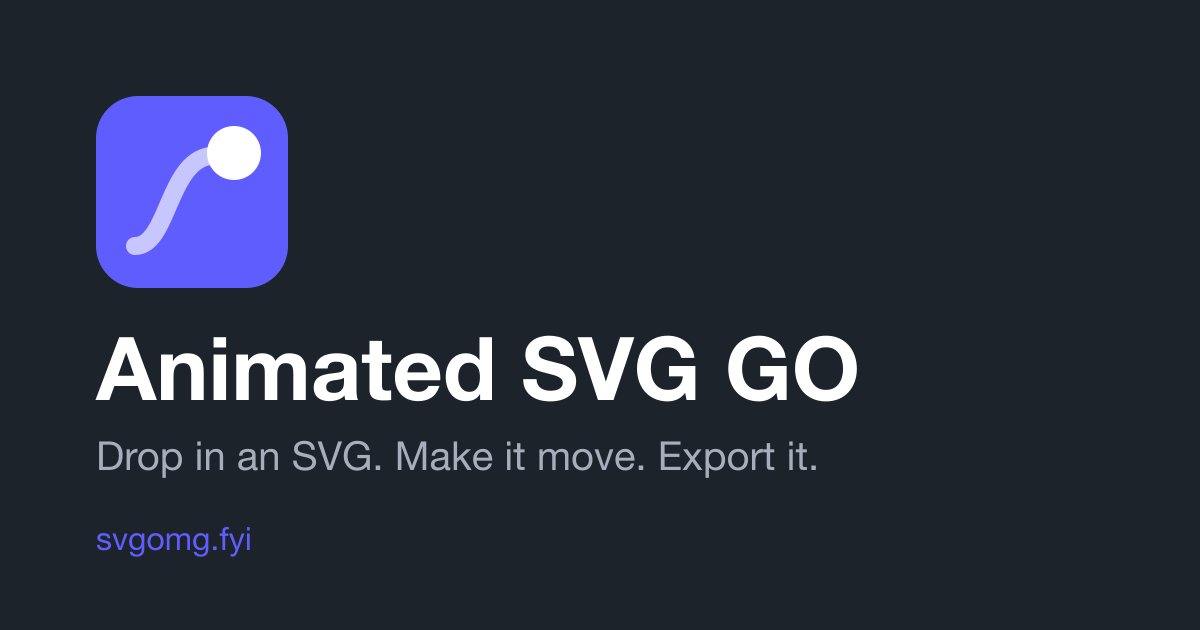
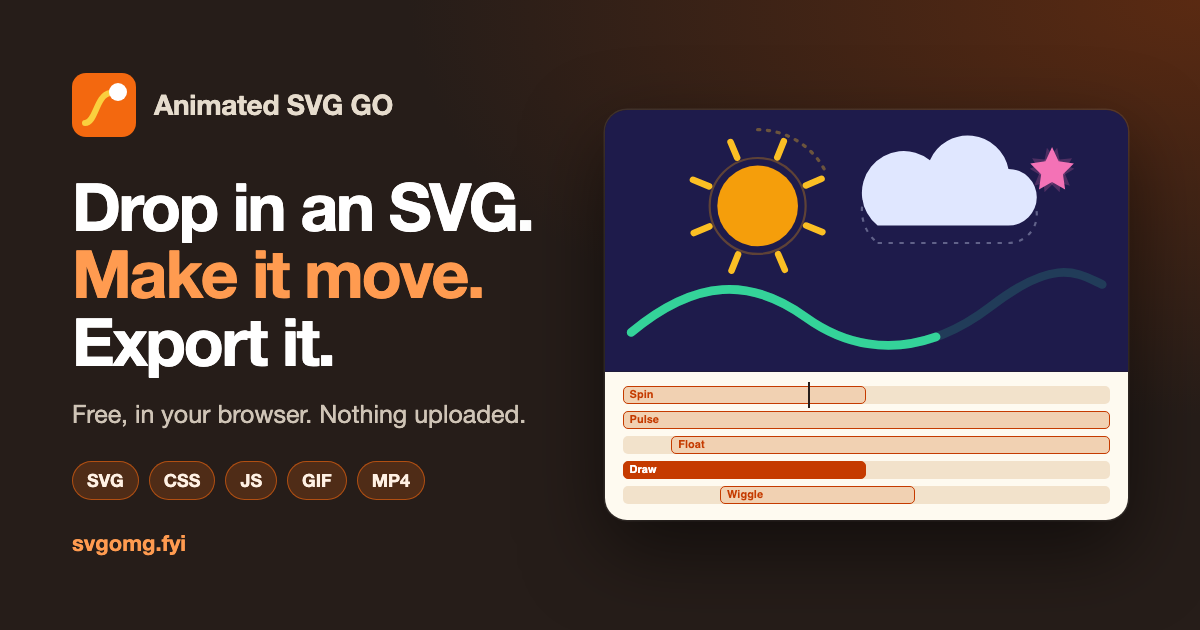
feat: warm tangerine, sunshine and mint palette
Replaces the stock daisyUI indigo in both themes. Primary passes 4.5:1
as text on every base shade, and its content colour passes on it.
Recolours the icon, theme colour, favicons and social card to match,
and the social card now shows the editor mid-animation.

diff --git a/src/styles/global.css b/src/styles/global.css
@@ -1,10 +1,42 @@
 @import "tailwindcss";
 @plugin "daisyui";
 
-/* The stock dark primary is 3.4:1 as text on the dark base. Lighter, with dark text on it, both pass 4.5:1 (WCAG 1.4.3). */
+/*
+  Tangerine, sunshine and mint on warm cream. Primary is also used as text (outline buttons), so it is
+  kept dark enough to pass 4.5:1 on every base shade, and its content colour passes on it (WCAG 1.4.3).
+  Secondary and accent are fills only: as text they fail.
+*/
+@plugin "daisyui/theme" {
+  name: "light";
+  default: true;
+  --color-base-100: oklch(98.5% 0.014 85);
+  --color-base-200: oklch(96% 0.024 82);
+  --color-base-300: oklch(92% 0.035 78);
+  --color-base-content: oklch(21% 0.025 40);
+  --color-primary: oklch(55% 0.185 40);
+  --color-primary-content: oklch(99% 0.01 85);
+  --color-secondary: oklch(87% 0.16 92);
+  --color-secondary-content: oklch(26% 0.03 40);
+  --color-accent: oklch(80% 0.13 170);
+  --color-accent-content: oklch(26% 0.03 40);
+  --color-neutral: oklch(30% 0.03 40);
+  --color-neutral-content: oklch(96% 0.02 82);
+}
+
+/* Lighter primary with dark text on it, so both pass 4.5:1 on the dark base. */
 @plugin "daisyui/theme" {
   name: "dark";
   prefersdark: true;
-  --color-primary: oklch(72% 0.16 277);
-  --color-primary-content: oklch(20% 0.02 260);
+  --color-base-100: oklch(24% 0.016 45);
+  --color-base-200: oklch(21.5% 0.016 45);
+  --color-base-300: oklch(19% 0.016 45);
+  --color-base-content: oklch(94% 0.015 80);
+  --color-primary: oklch(78% 0.15 55);
+  --color-primary-content: oklch(22% 0.04 35);
+  --color-secondary: oklch(85% 0.15 90);
+  --color-secondary-content: oklch(22% 0.03 40);
+  --color-accent: oklch(80% 0.13 170);
+  --color-accent-content: oklch(22% 0.03 40);
+  --color-neutral: oklch(32% 0.02 45);
+  --color-neutral-content: oklch(94% 0.015 80);
 }
